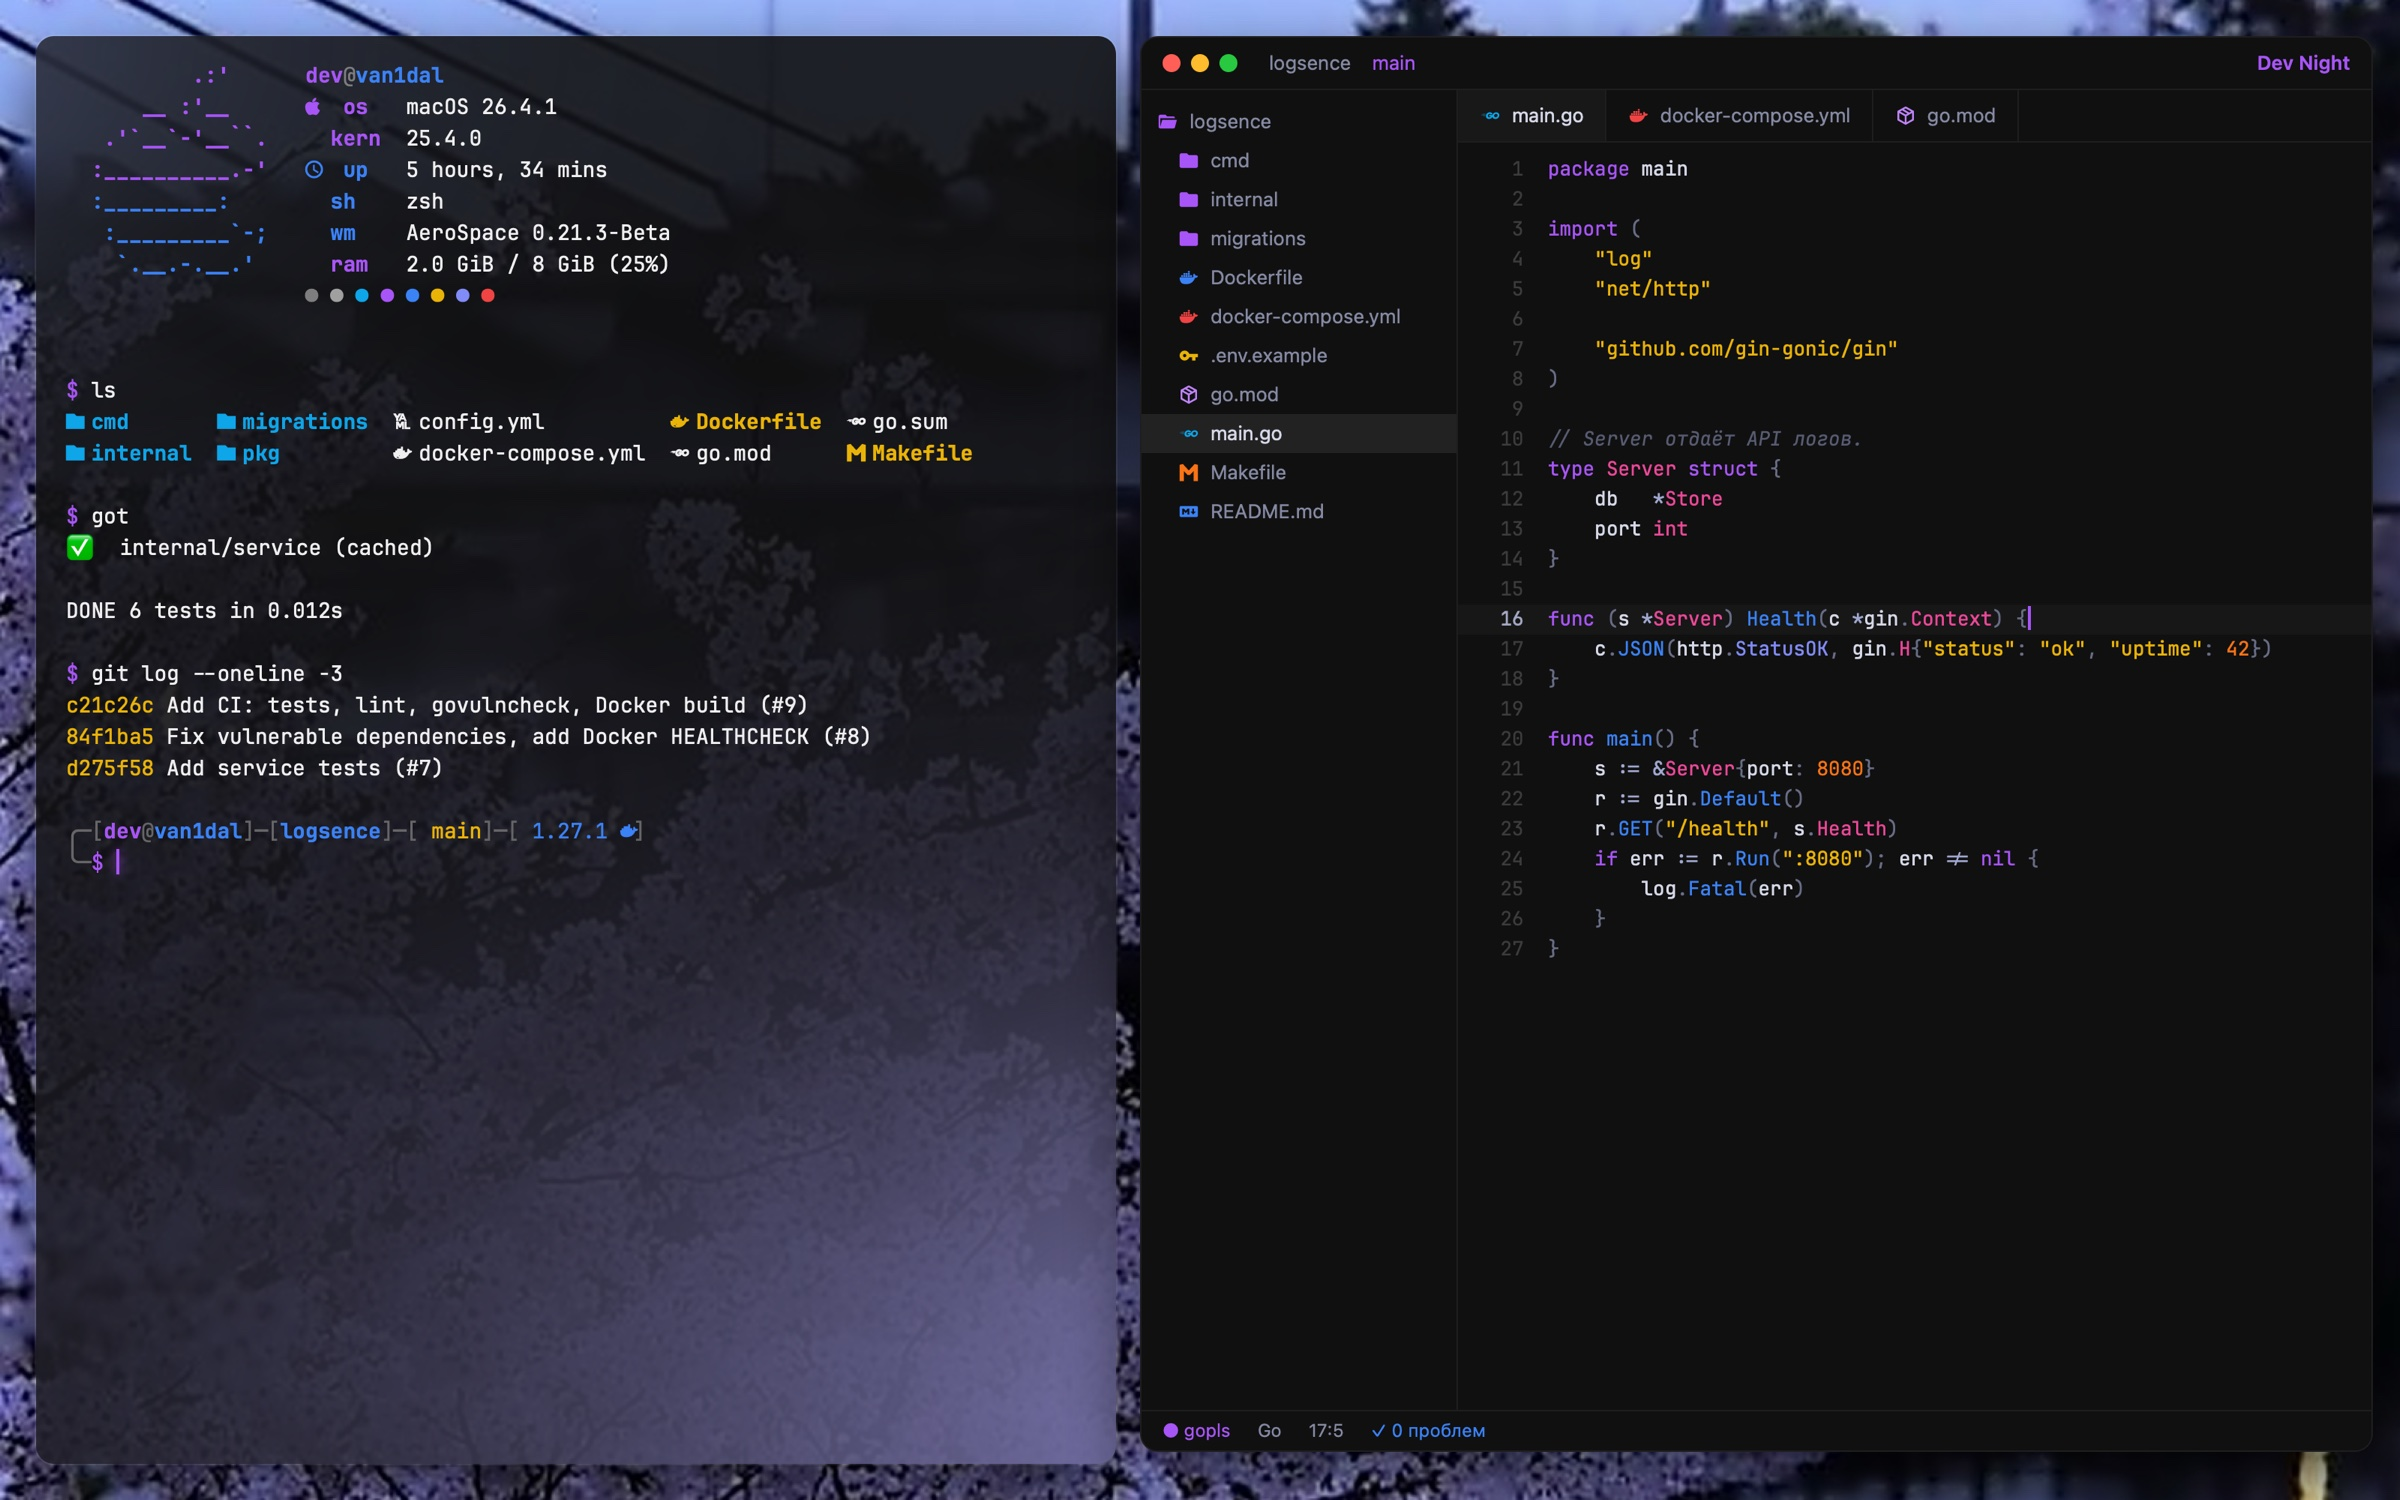
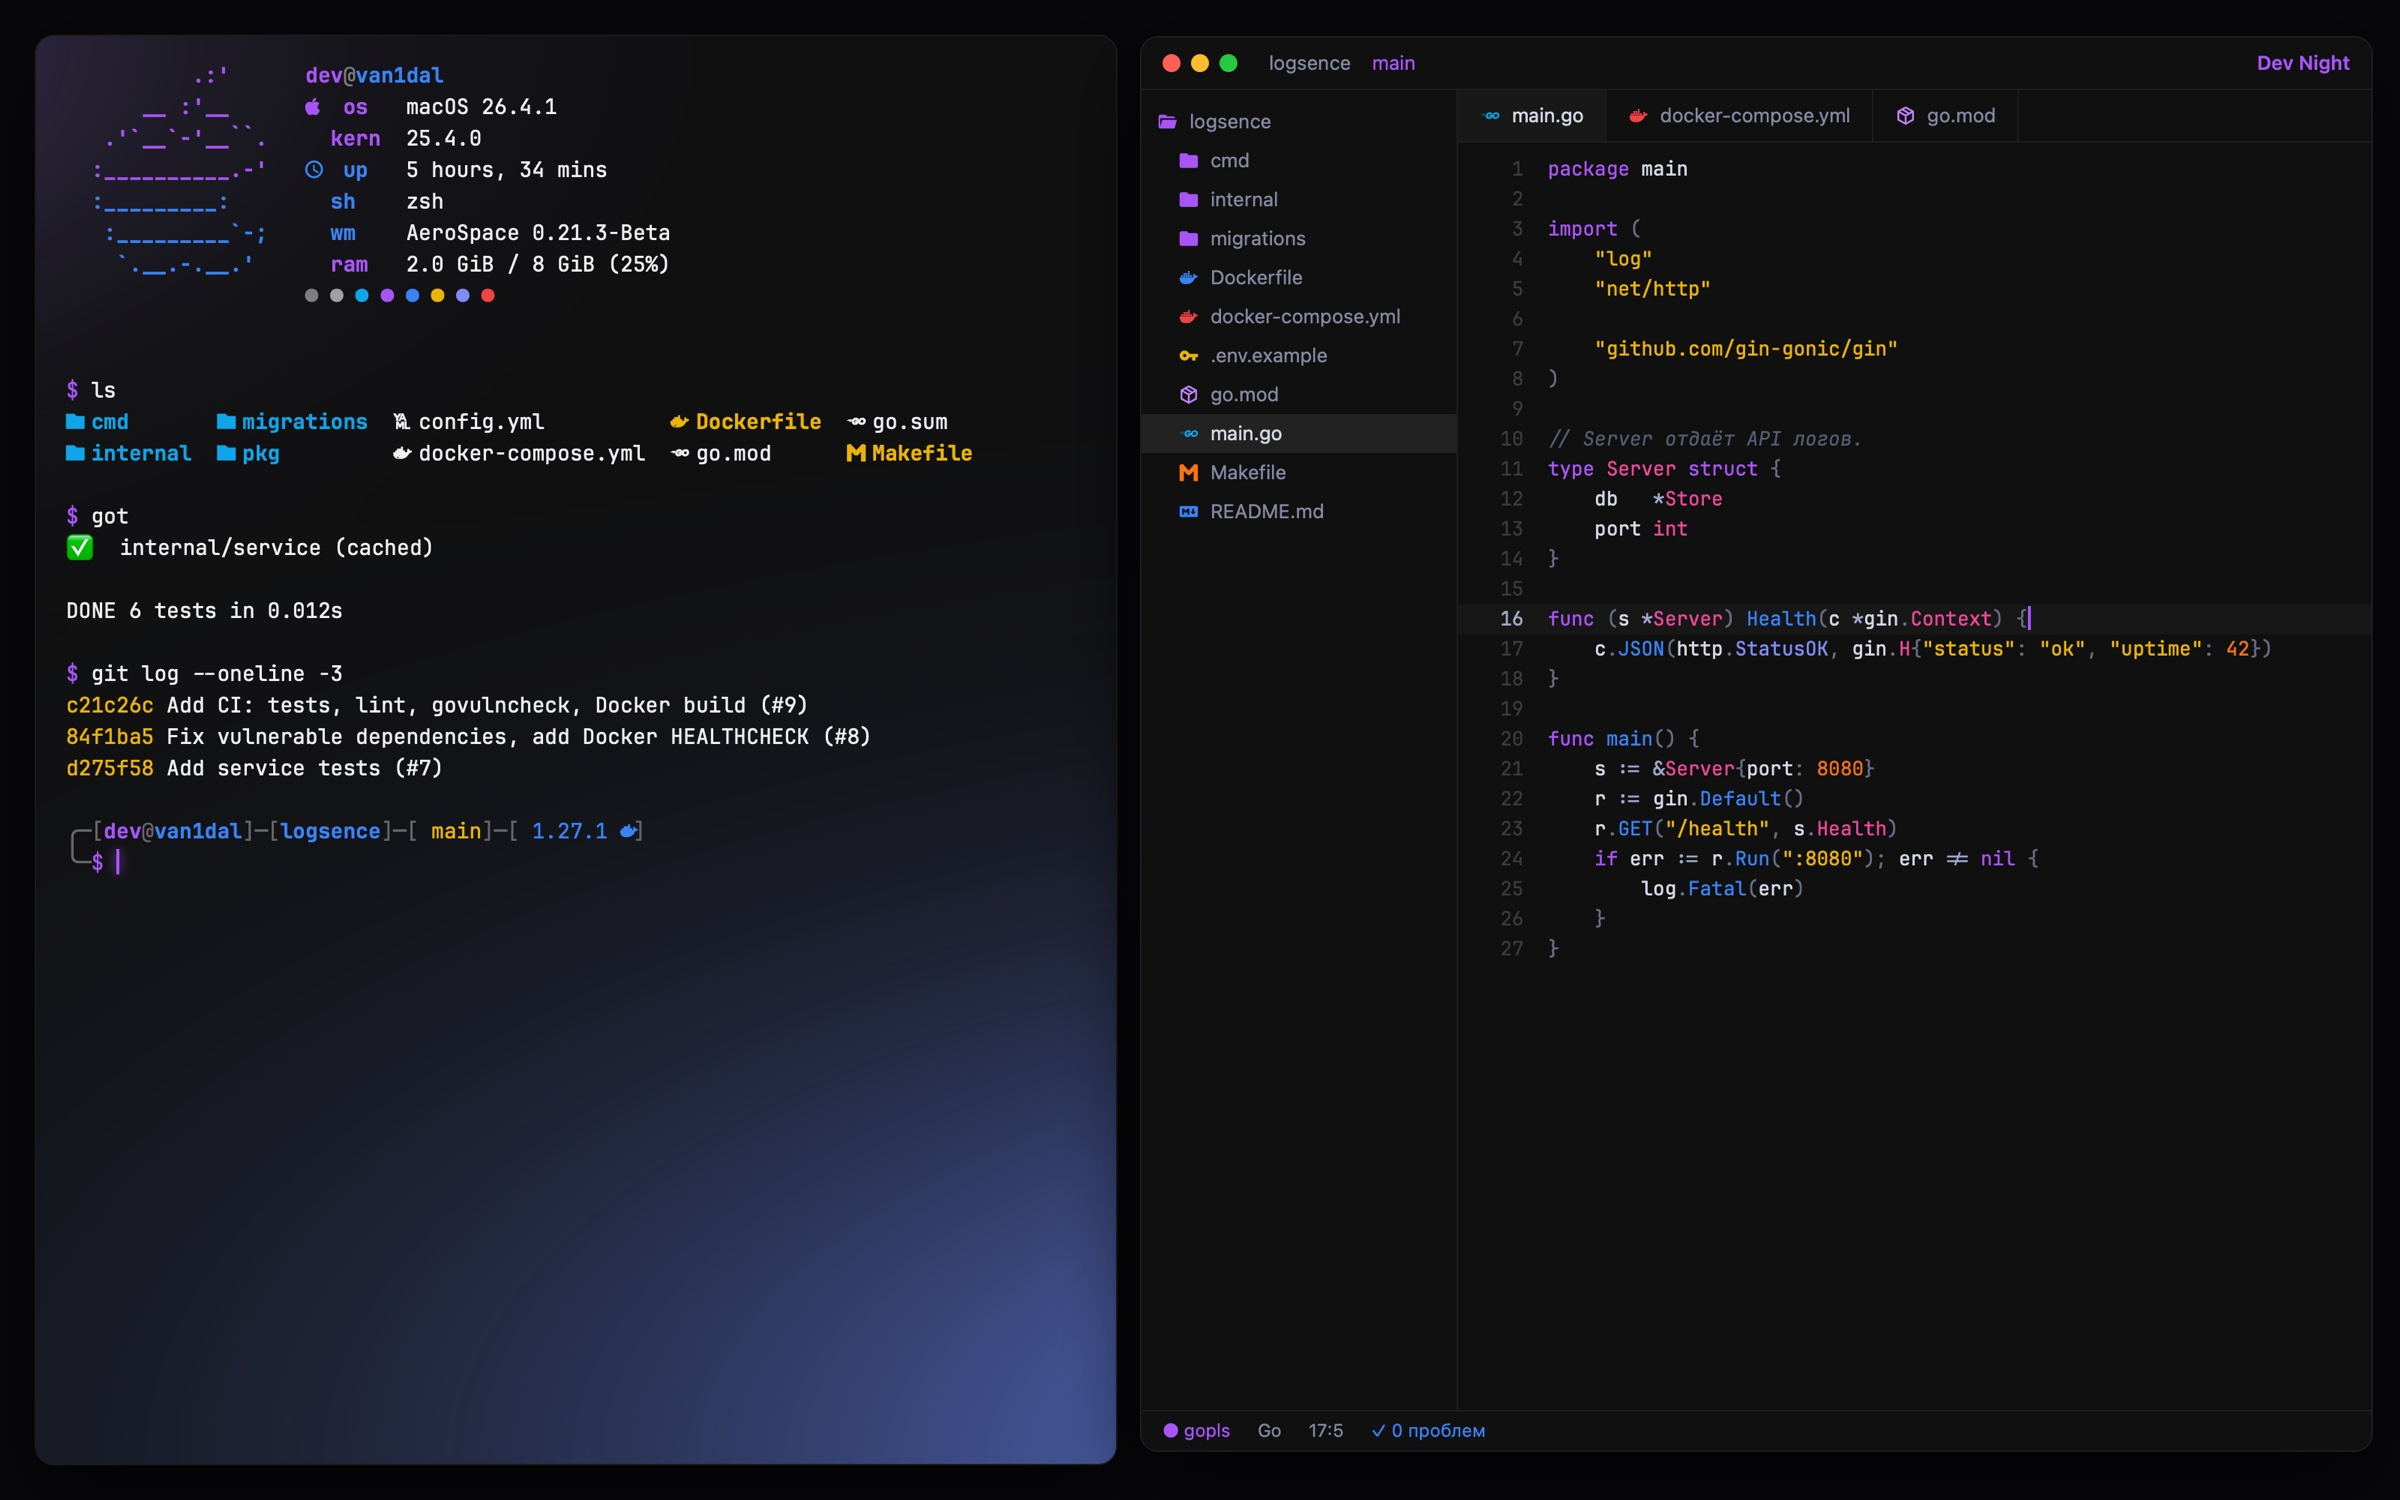
README hero uses a generated wallpaper (prism), not a personal photo
Claude-Session: https://claude.ai/code/session_01A6vcWtPRURuRKDpNb9h79B

diff --git a/README.md b/README.md
@@ -11,7 +11,7 @@ MacBook Air M2 · 8 GB · zsh · Ghostty · AeroSpace · Zed
 ![license](https://img.shields.io/badge/license-MIT-101010?style=flat-square)
 ![ci](https://github.com/van1dalgrr-arch/dotfiles/actions/workflows/ci.yml/badge.svg)
 
-<img src="docs/desktop.jpg" alt="Ghostty and Zed tiled by AeroSpace over a sakura wallpaper, the terminal glowing in its colors" width="100%">
+<img src="docs/desktop.jpg" alt="Ghostty and Zed tiled by AeroSpace over the prism wallpaper, the terminal glowing in its colors" width="100%">
 
 <sub>Ghostty + Zed tiled by AeroSpace. The terminal's glow is built from the wallpaper's colors. Rendered from real command output.</sub>
 
